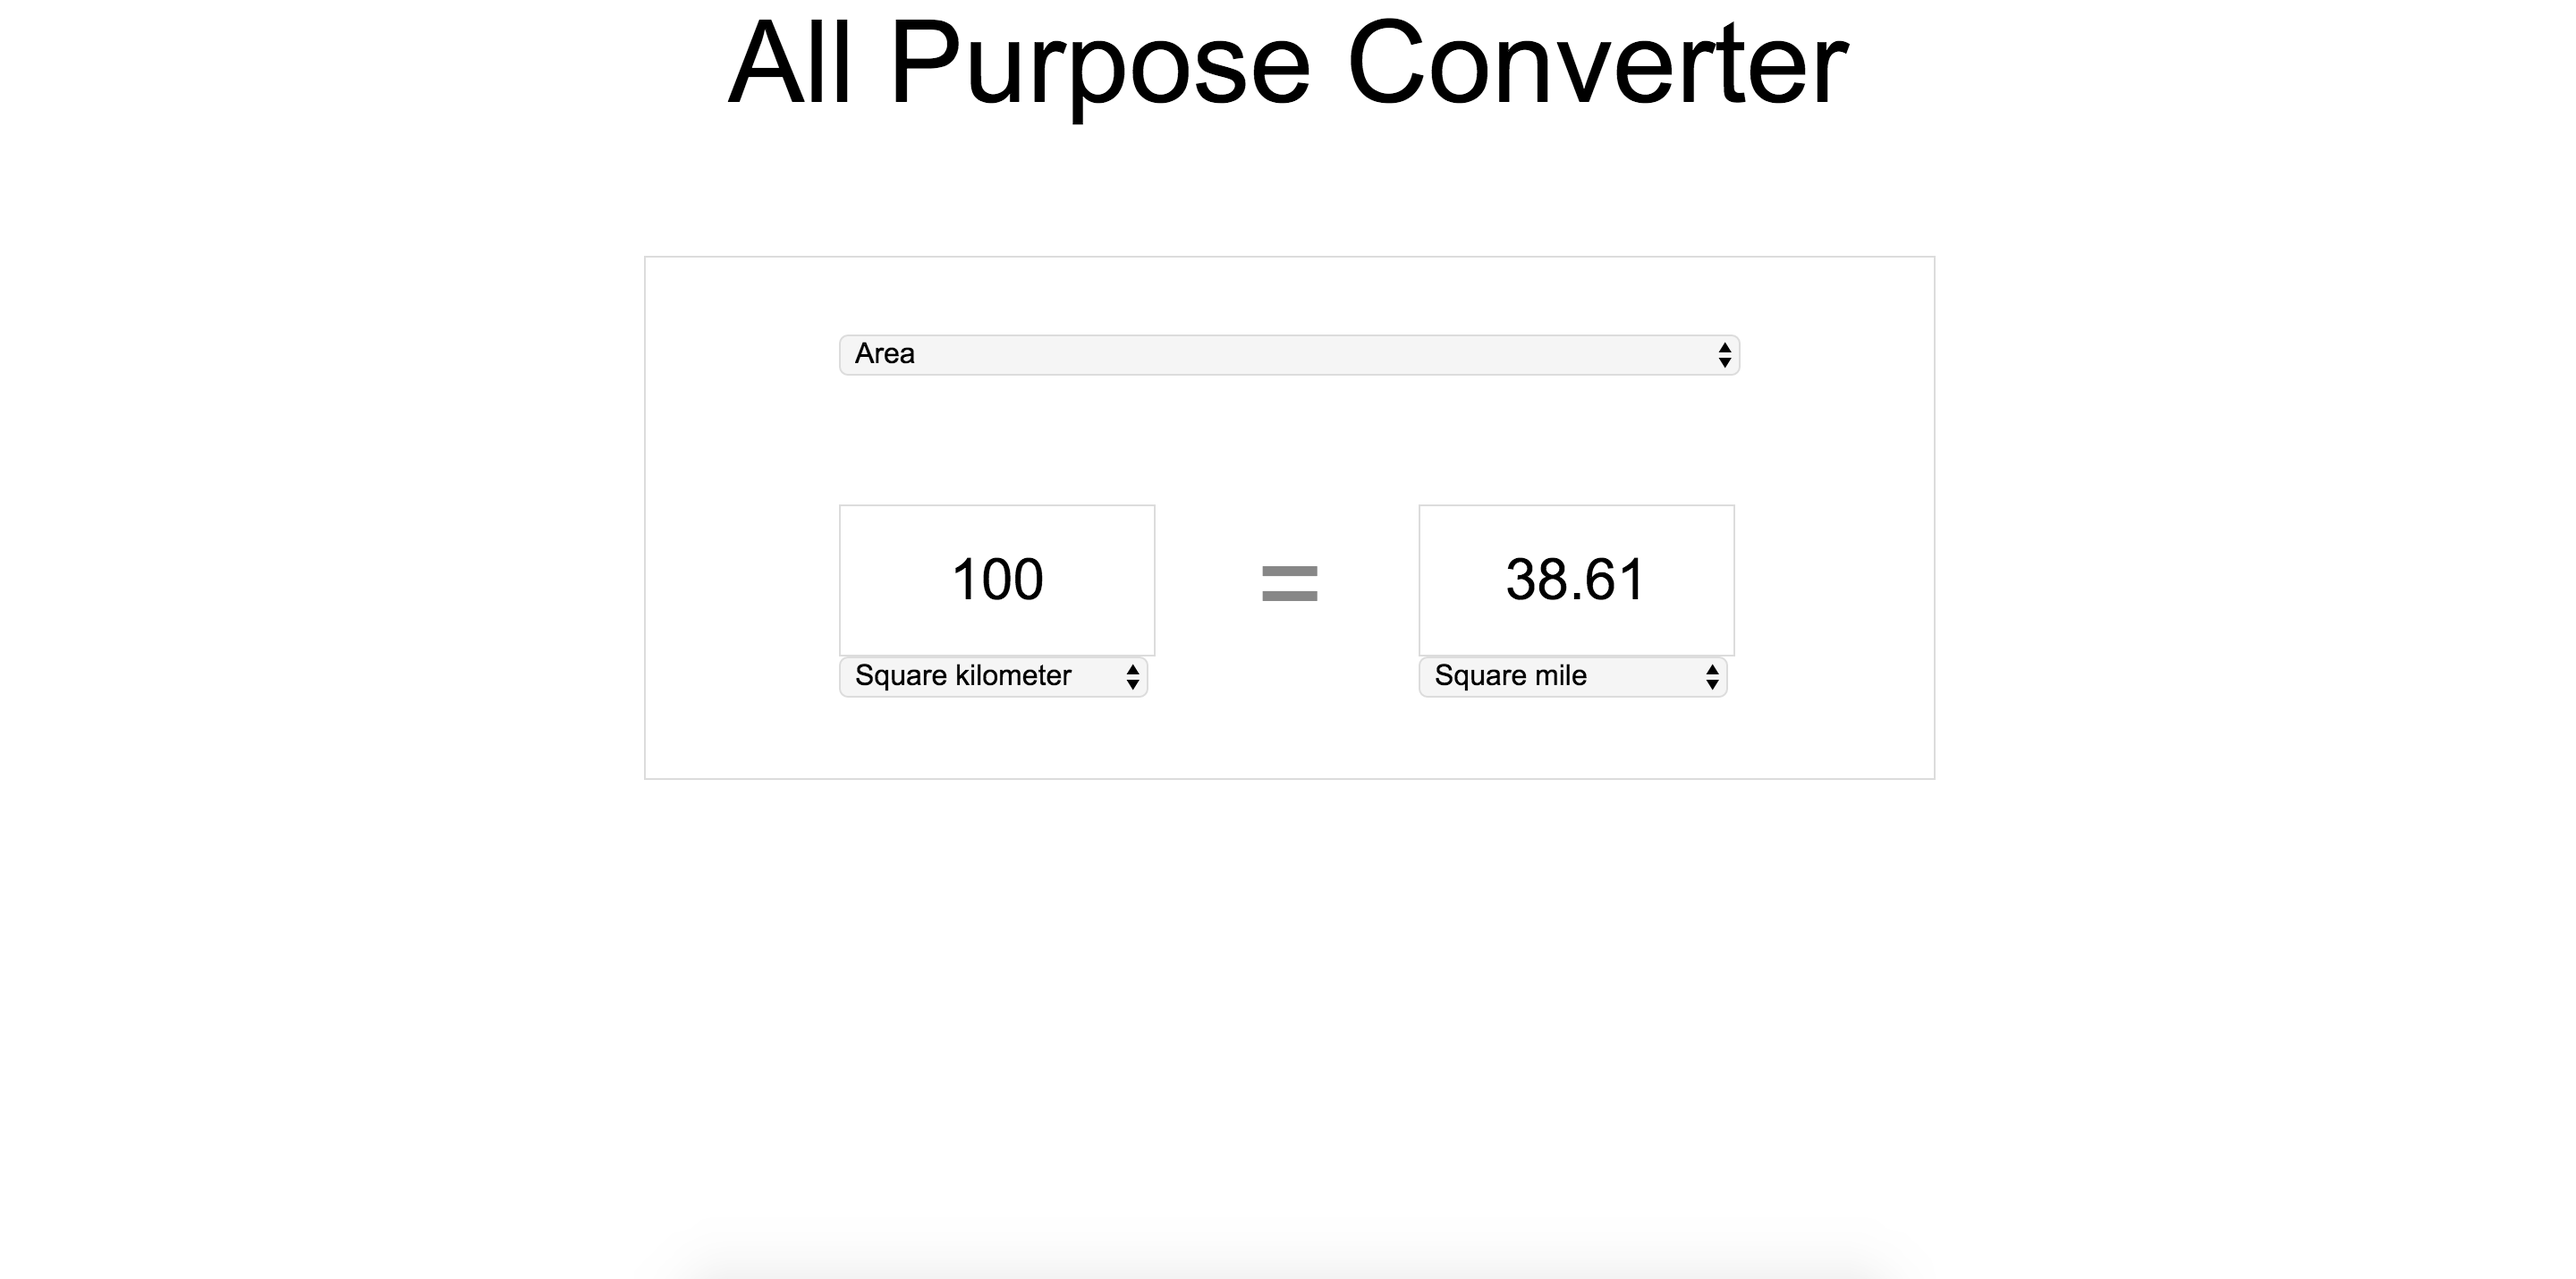
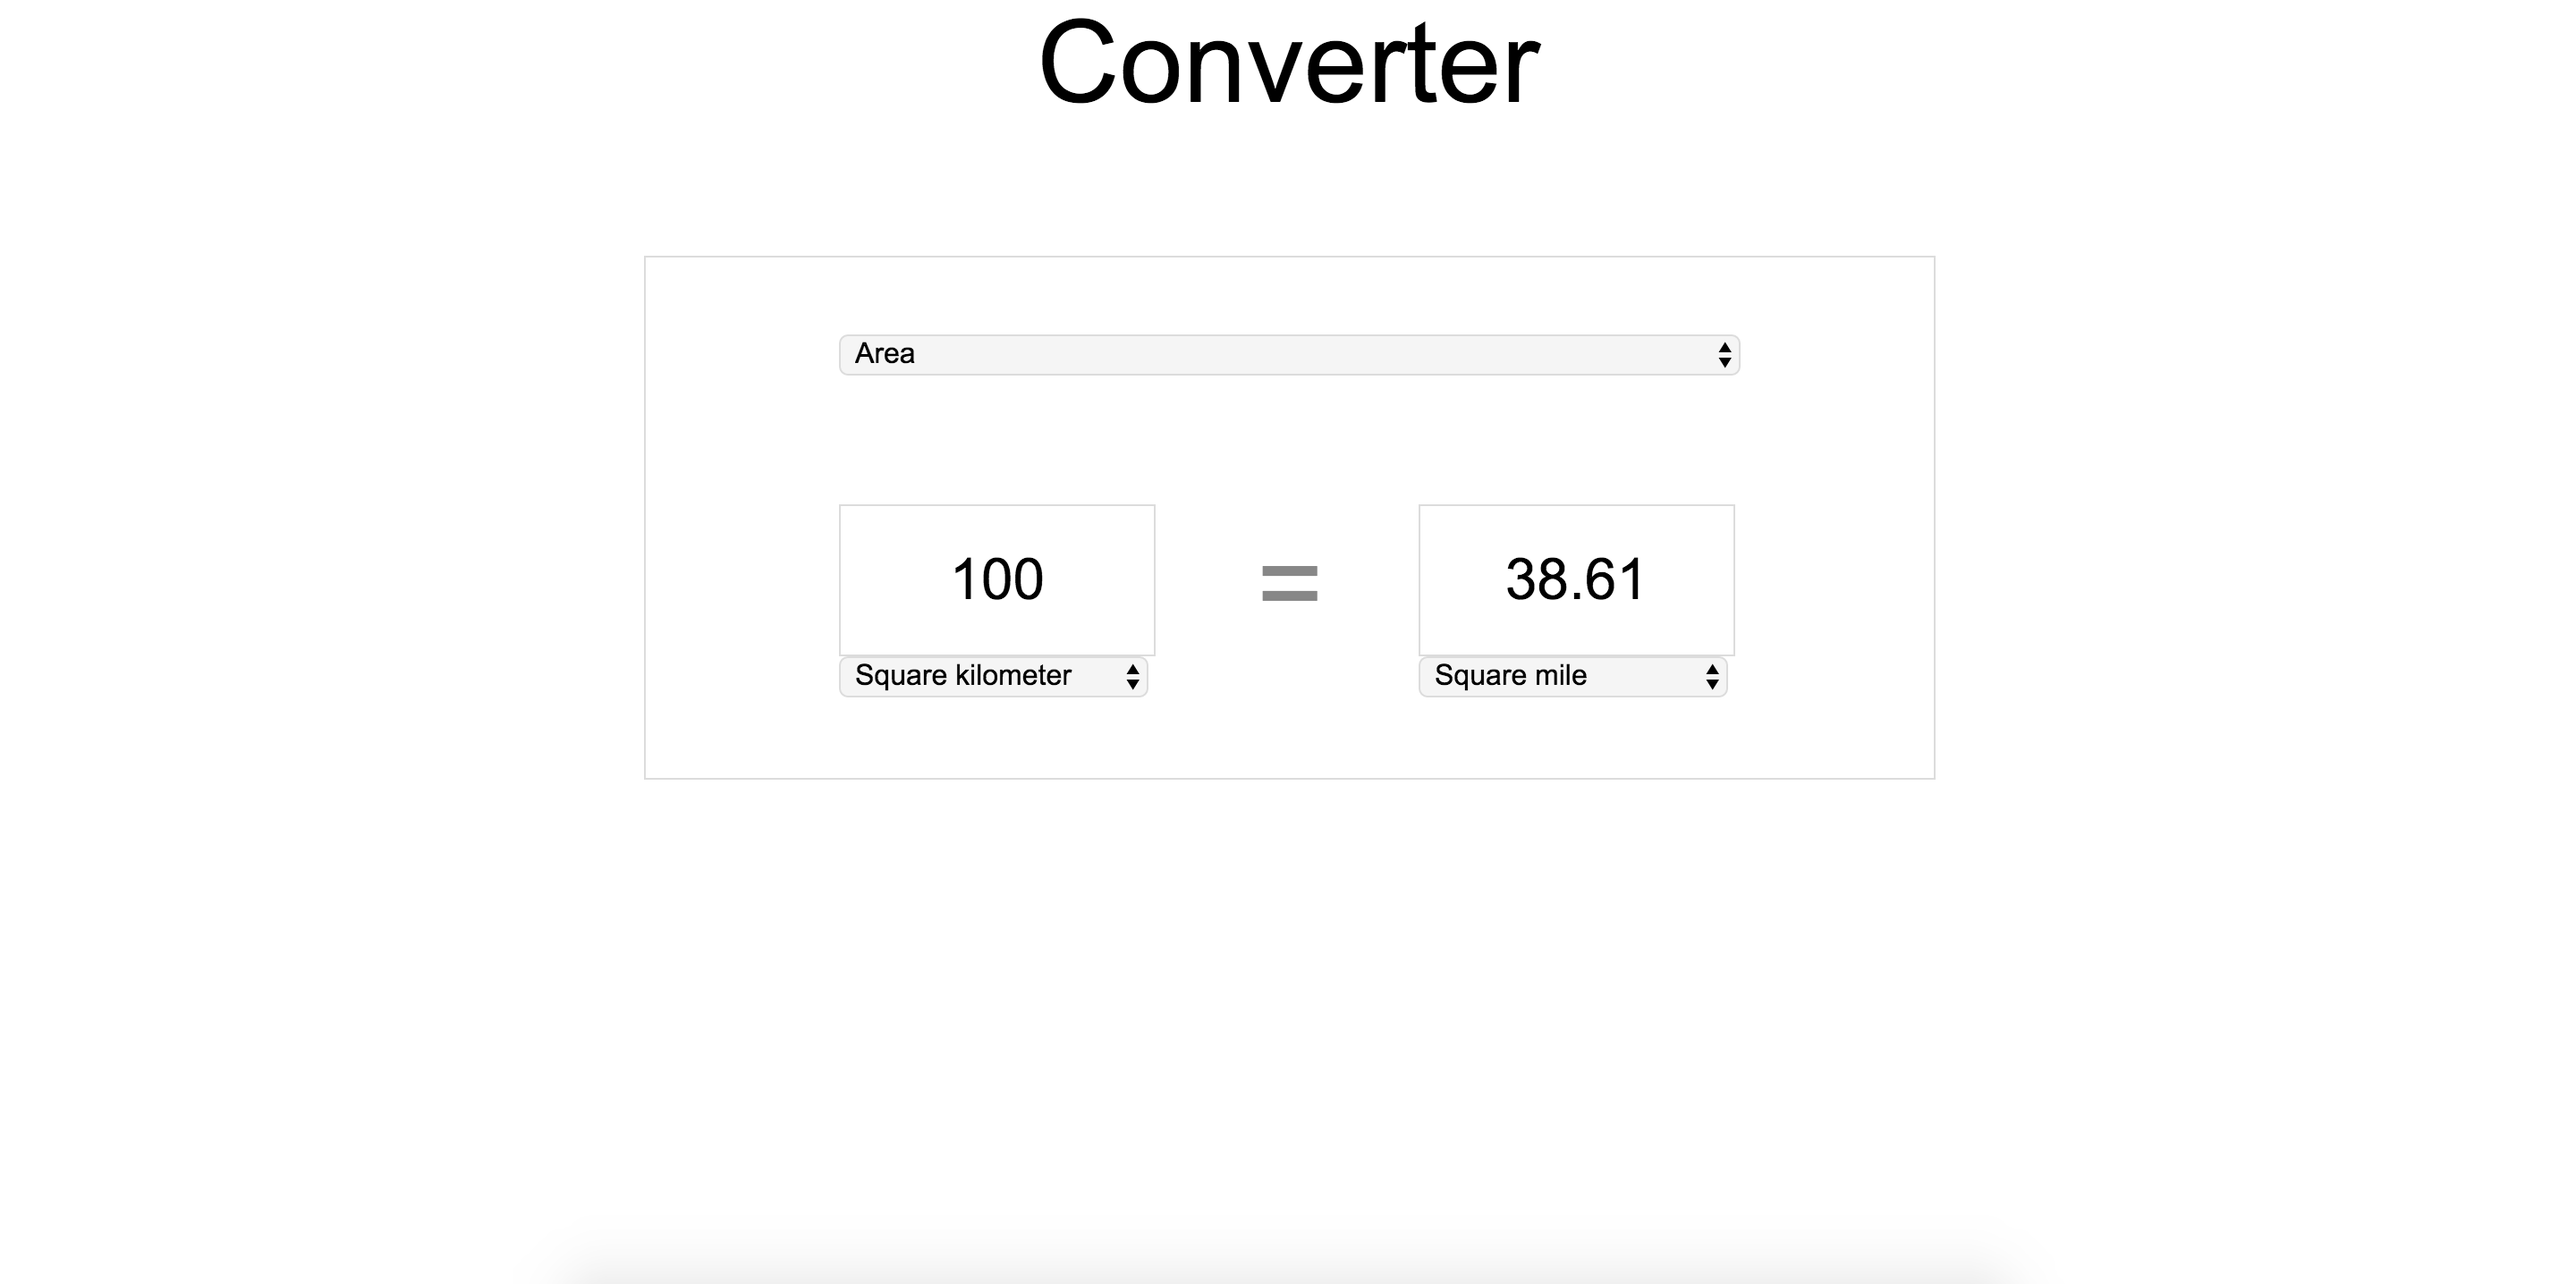
updating

diff --git a/js/readme.js b/js/readme.js
@@ -46,7 +46,7 @@ $(document).ready(function()
   {
     $("body").append("<div id='readme'></div>").hide().fadeIn("slow");
     $("#readme").append("<div id='readmeExit' class='fa fa-times'></div>");
-    $("#readme").append("<div id='readmeTitle'>All Purpose Converter</div>");
+    $("#readme").append("<div id='readmeTitle'>Converter</div>");
     $("#readme").append("<div id='readmeText'>A simple converter that works with several different measurements.<br><br>Date created: June 8, 2016<br>Technologies used: HTML, CSS, JavaScript</div>");
     $("#readmeExit").click(function()
     {

diff --git a/portfolio.html b/portfolio.html
@@ -58,7 +58,7 @@
     <div class="row itemContact">
       <div class="col-md-4 mobileSpace">
         <div id="converterPic" class="projectPicPosition img-rounded"></div>
-        <p class="title">All Purpose Converter</p>
+        <p class="title">Converter</p>
 				<div class="descLinks">
 					<a class="webLink icons" href="converter/converter.html" target="_blank"><span class="fa fa-eye"></a>
 					<a class="webLink icons" href="https://github.com/christopherbergstrom/converter" target="_blank"><span class="fa fa-github"></a>

diff --git a/css/web.css b/css/web.css
@@ -30,6 +30,7 @@
   -ms-transition: all .25s;
   transition: all .25s;
   color: black !important;
+  z-index: 1000;
 }
 #readmeExit:hover
 {
@@ -367,6 +368,18 @@ body
     /*background: url(../images/pattern.jpg) center center fixed;*/
     /*background-size: cover;*/
     /*background-size: contain;*/
+  }
+  #readmeTitle
+  {
+    top: 10vh;
+    font-size: 3em;
+    line-height: 120%;
+  }
+  #readmeText
+  {
+    /*top: 25vh;*/
+    line-height: 100%;
+    font-size: 1.5em;
   }
   .item
   {
